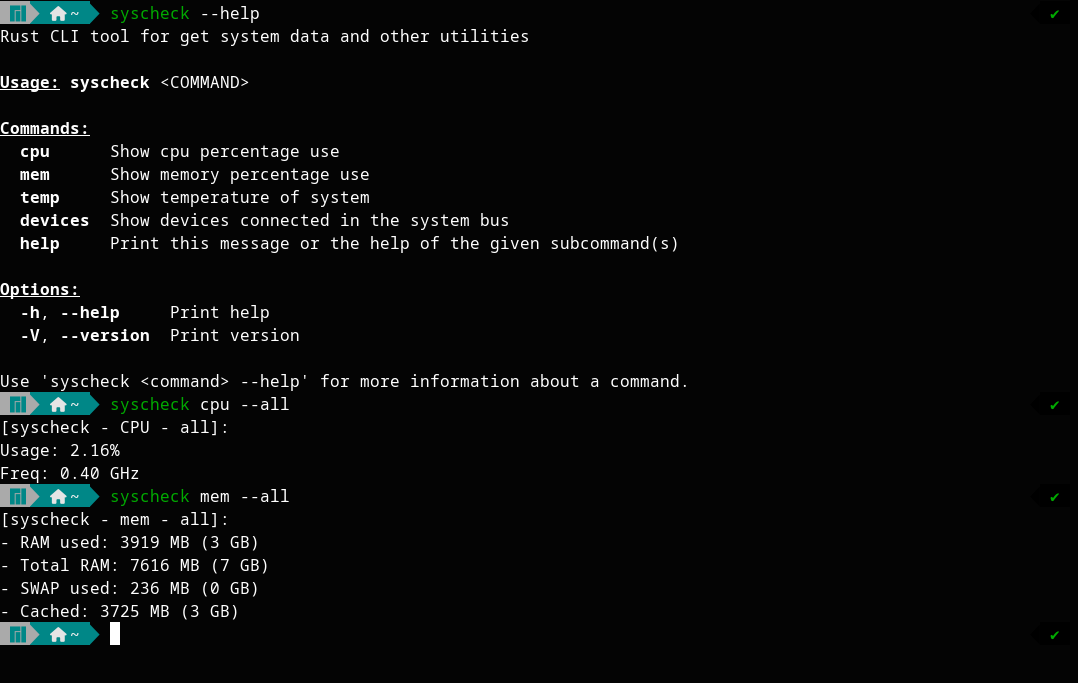
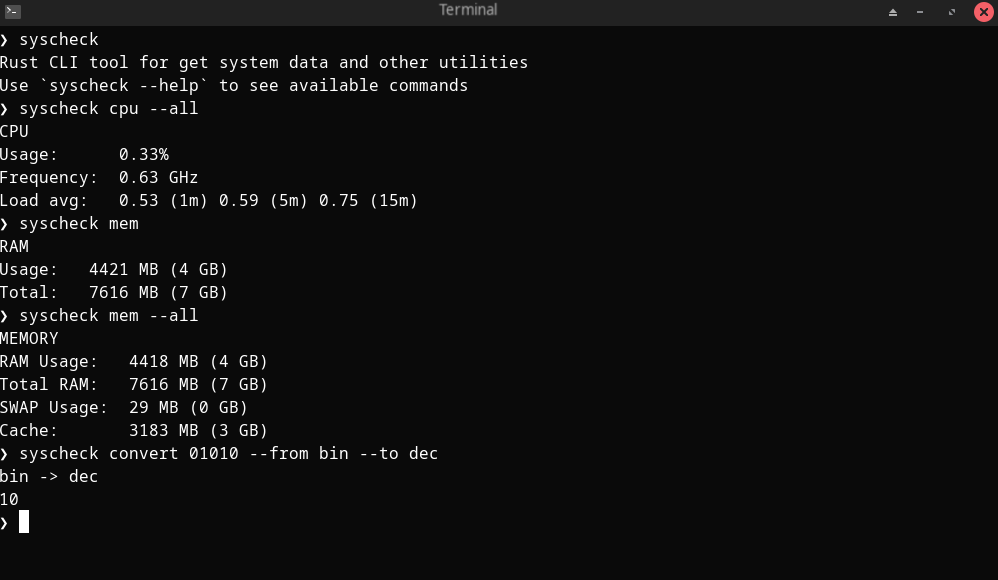
Readme

diff --git a/README.md b/README.md
@@ -15,9 +15,11 @@ monitoring tools and various utilities.
 
 The standar input of the program is:
 
-```
+```rust
 syscheck <command> --FLAG
 ```
+
+You aslo can use syscheck --help or syscheck <comand> --help.
 
 
 ### cpu
@@ -25,8 +27,10 @@ syscheck <command> --FLAG
 
 This tool just prints the percentage of use of the processor, admits "--all" flag and "--ghz" for only frequency.
 
-```
-[syscheck - CPU - all]:
+```rust
+syscheck cpu
+
+CPU
 - Usage: 4.03%
 - Freq: 0.52 GHz
 ```
@@ -38,14 +42,37 @@ This tool just prints the percentage of use of the processor, admits "--all" fla
 This tool displays the main system memories: RAM, swap, and cache. It supports the "--all", "--cache", 
 and "--swap" flags.
 
-```
-[syscheck - mem - all]:
+```rust
+syscheck mem --all
+
+MEMORY
 - RAM used: 4476 MB (4 GB)
 - Total RAM: 7616 MB (7 GB)
 - SWAP used: 228 MB (0 GB)
 - Cached: 2924 MB (2 GB)
 ```
 
+### convert
+
+
+This is one of the utilitis, you can convert numbers between binary, decimal, hexadecimal and octal, it aslo parse
+the prefixes that numbers usually have "0x00007fc9928f9000". in "syscheck convert --help" you can found how to use it.
+
+```rust
+syscheck convert 0x00007fc9928f9000 --from hex --to bin
+
+hex -> bin
+11111111100100110010010100011111001000000000000
+
+```
+
+## other tools
+
+- temp: It displays the processor or motherboard temperature.
+
+- info: Displays general system information.
+
+- devices: Displays the devices connected to the dbus.
 
 
 ## Advantages
